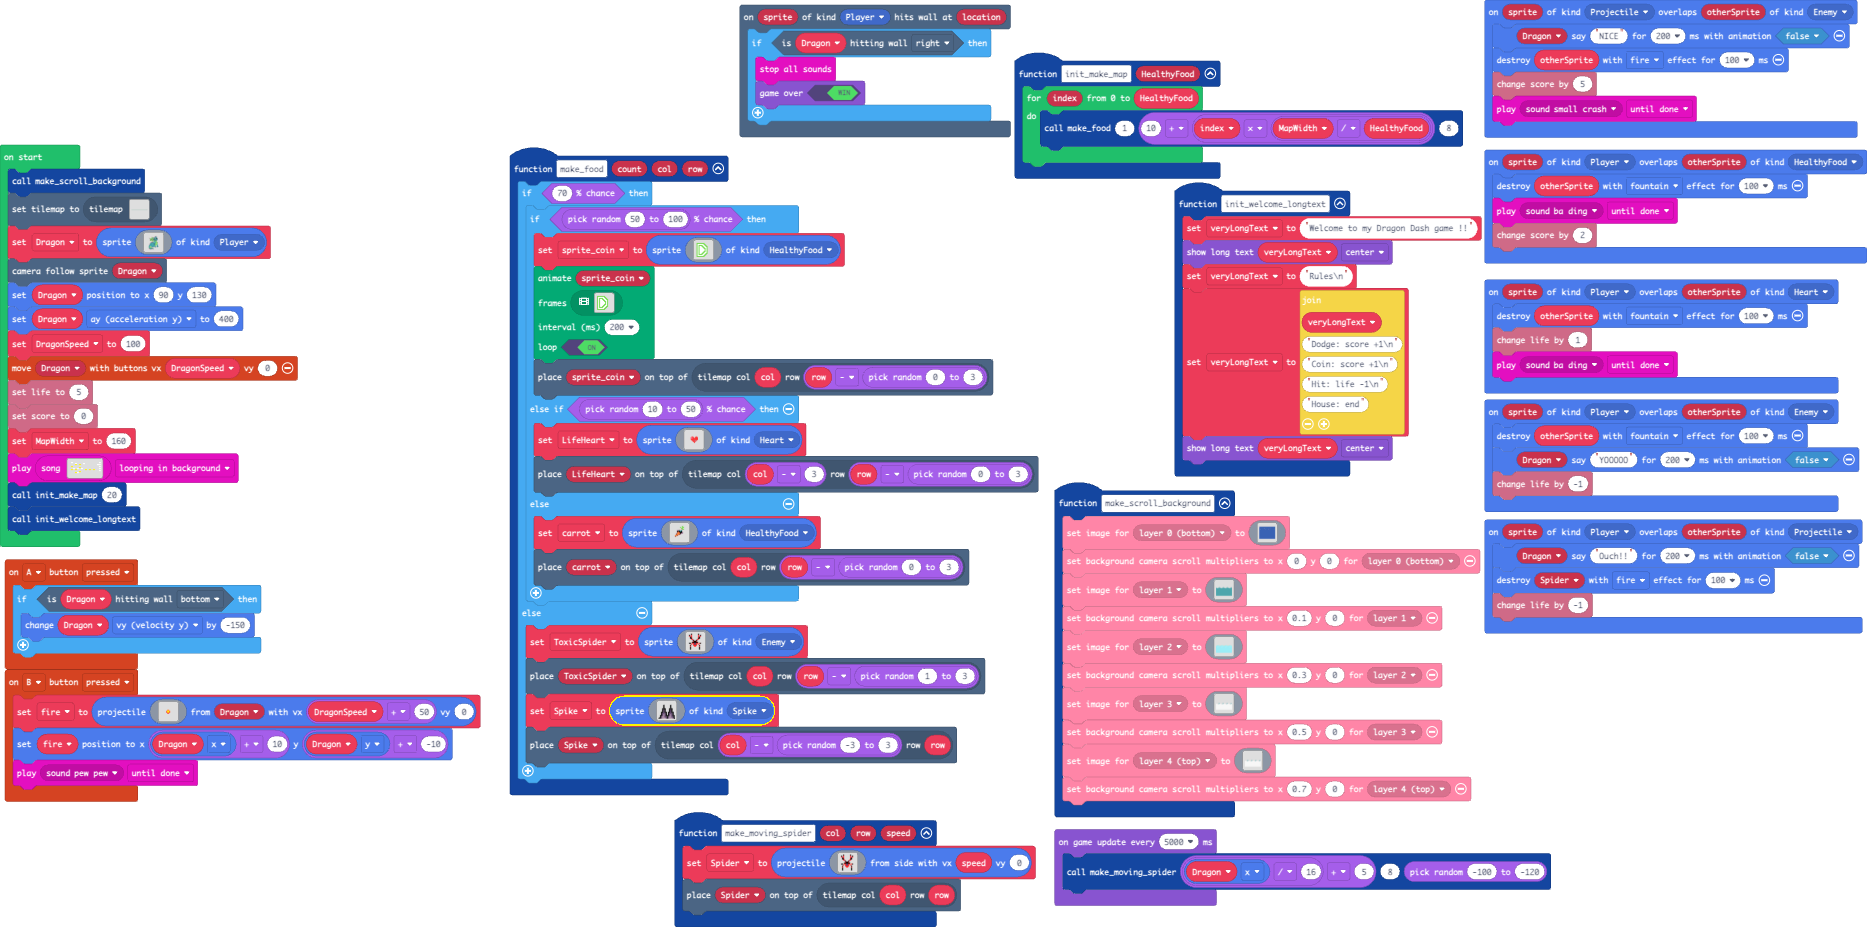
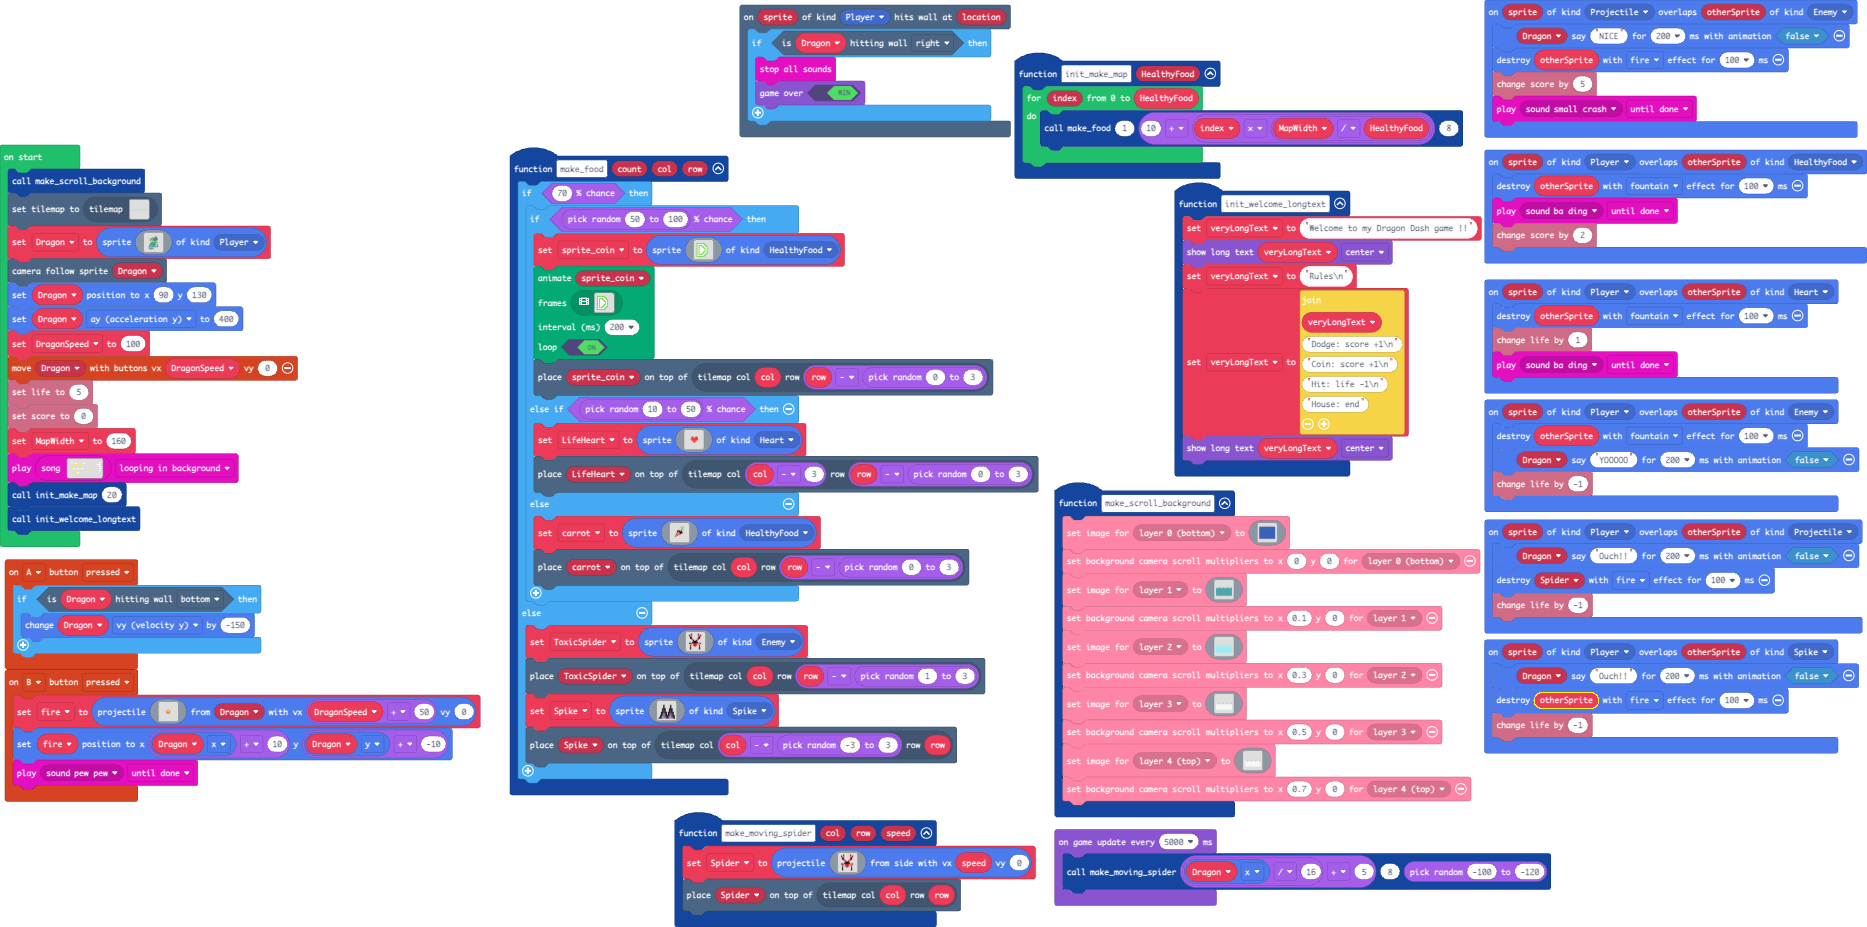
Update main.blocks, main.ts

Changed region(s): [[0.7766, 0.6645, 1.0, 0.8155]]

diff --git a/main.ts b/main.ts
@@ -62,6 +62,11 @@ function make_moving_spider (col: number, row: number, speed: number) {
     Spider = sprites.createProjectileFromSide(assets.image`15 by 0`, speed, 0)
     tiles.placeOnTile(Spider, tiles.getTileLocation(col, row))
 }
+sprites.onOverlap(SpriteKind.Player, SpriteKind.Spike, function (sprite, otherSprite) {
+    Dragon.sayText("Ouch!!", 200, false)
+    sprites.destroy(otherSprite, effects.fire, 100)
+    info.changeLifeBy(-1)
+})
 function init_welcome_longtext () {
     veryLongText = "Welcome to my Dragon Dash game !!"
     game.showLongText(veryLongText, DialogLayout.Center)
